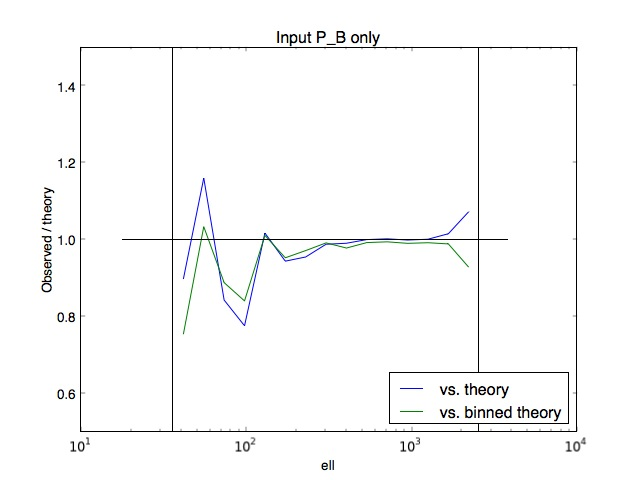
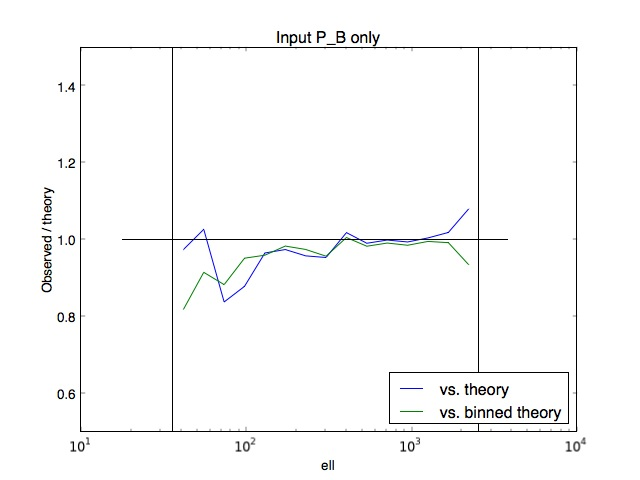
removed sign flip due to change in GalSim on branch 304 (#6)

diff --git a/galsim_test_pse.py b/galsim_test_pse.py
@@ -88,7 +88,6 @@ for ireal in range(n_realization):
     if verbose:
         print "Getting shears on a grid with E power only"
     g1, g2 = test_ps_e.buildGriddedShears(grid_spacing=dtheta, ngrid=grid_nx, units=galsim.degrees)
-    g2 = -1.*g2 # this might not be necessary, though it was for the GREAT10 PS estimation code
     pse_e = pse.PowerSpectrumEstimator(grid_nx, theta, n_ell)
     if ireal == 0:
         ell, cee_e, cbb_e, ceb_e, c_binned_theory_nowt = pse_e.estimate(g1, g2, theory_func = theory_tab)
@@ -100,14 +99,12 @@ for ireal in range(n_realization):
     if verbose:
         print "Getting shears on a grid with B power only"
     g1, g2 = test_ps_b.buildGriddedShears(grid_spacing=dtheta, ngrid=grid_nx, units=galsim.degrees)
-    g2 = -1.*g2 # this might not be necessary, though it was for the GREAT10 PS estimation code
     pse_b = pse.PowerSpectrumEstimator(grid_nx, theta, n_ell)
     ell, cee_b, cbb_b, ceb_b = pse_b.estimate(g1, g2)
 
     if verbose:
         print "Getting shears on a grid with E and B power"
     g1, g2 = test_ps_eb.buildGriddedShears(grid_spacing=dtheta, ngrid=grid_nx, units=galsim.degrees)
-    g2 = -1.*g2 # this might not be necessary, though it was for the GREAT10 PS estimation code
     pse_eb = pse.PowerSpectrumEstimator(grid_nx, theta, n_ell)
     ell, cee_eb, cbb_eb, ceb_eb = pse_eb.estimate(g1, g2, weight_EE=True)
 
